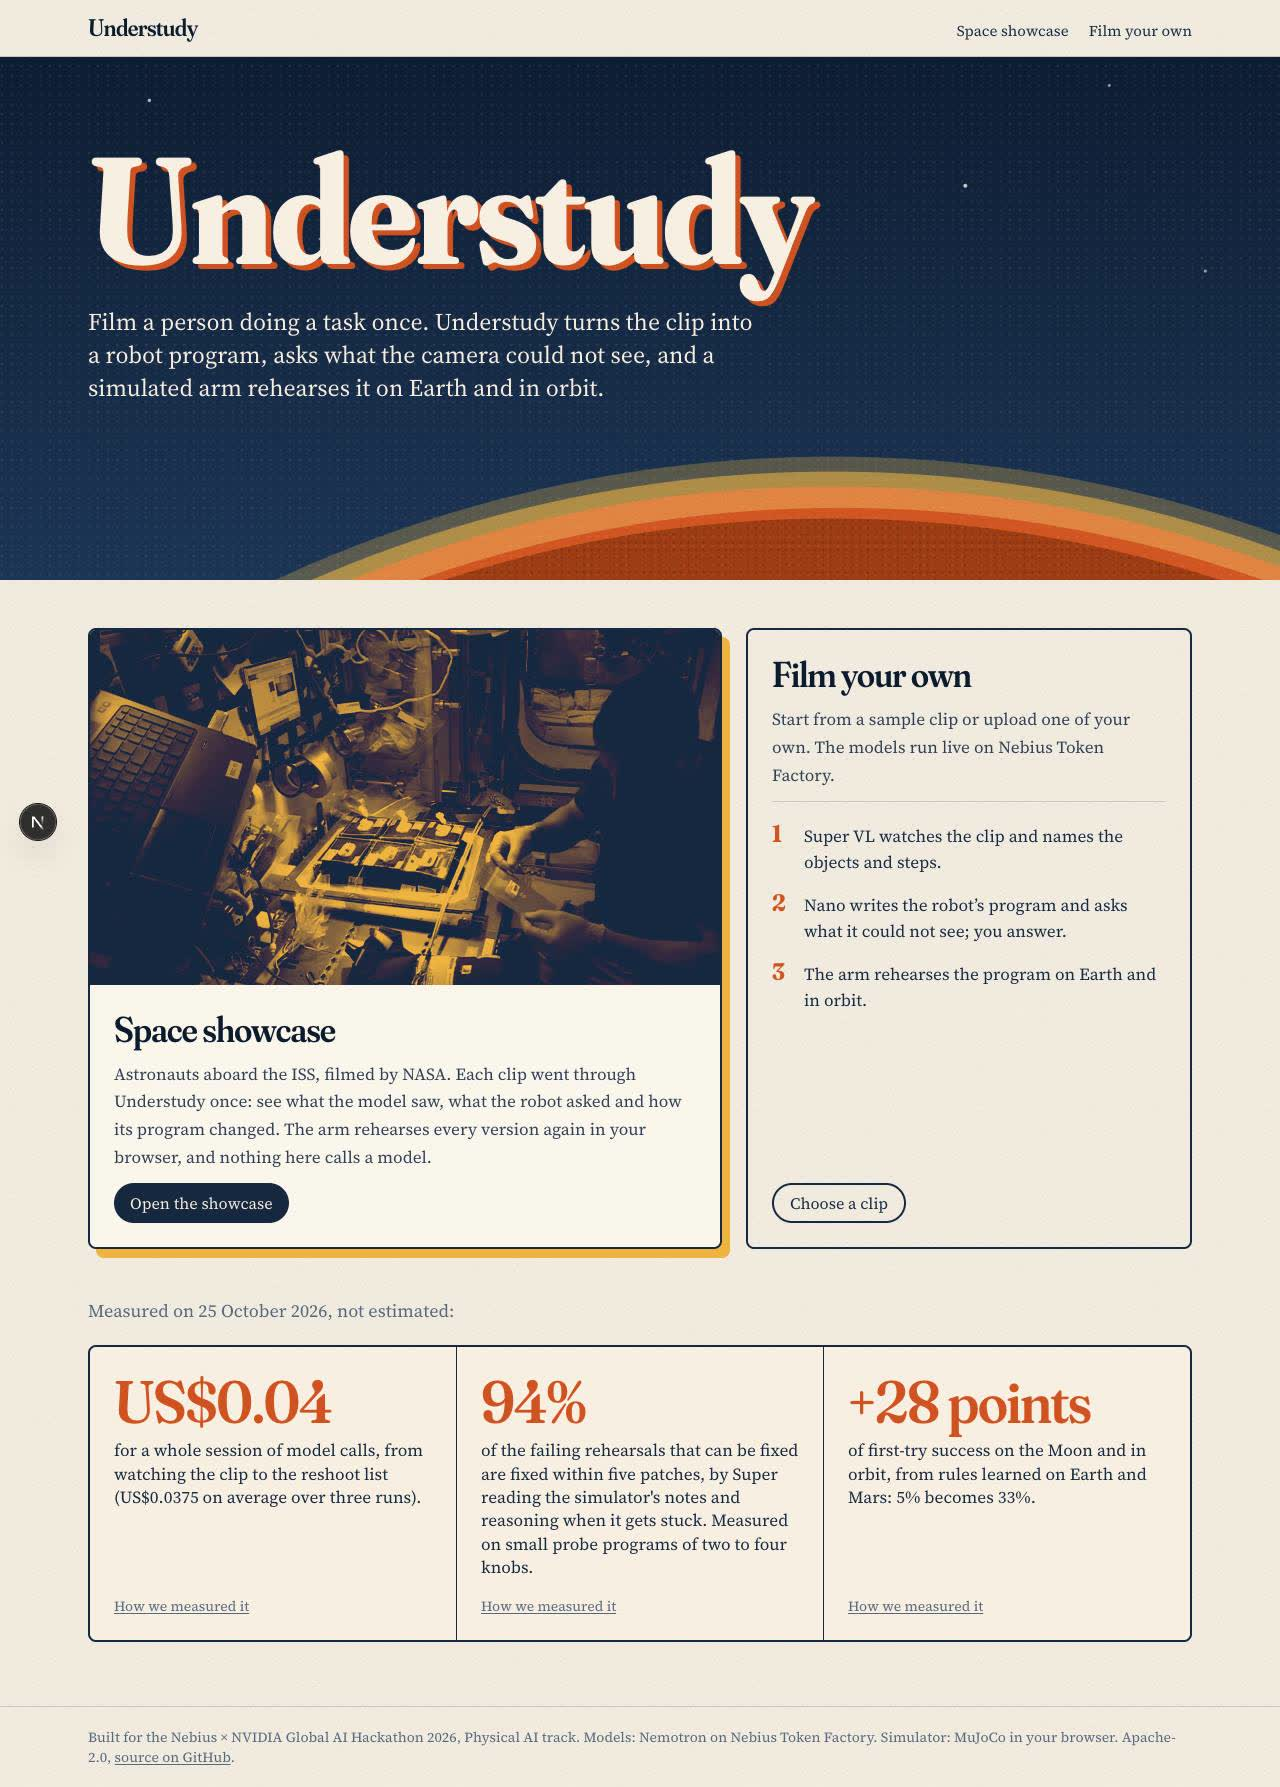
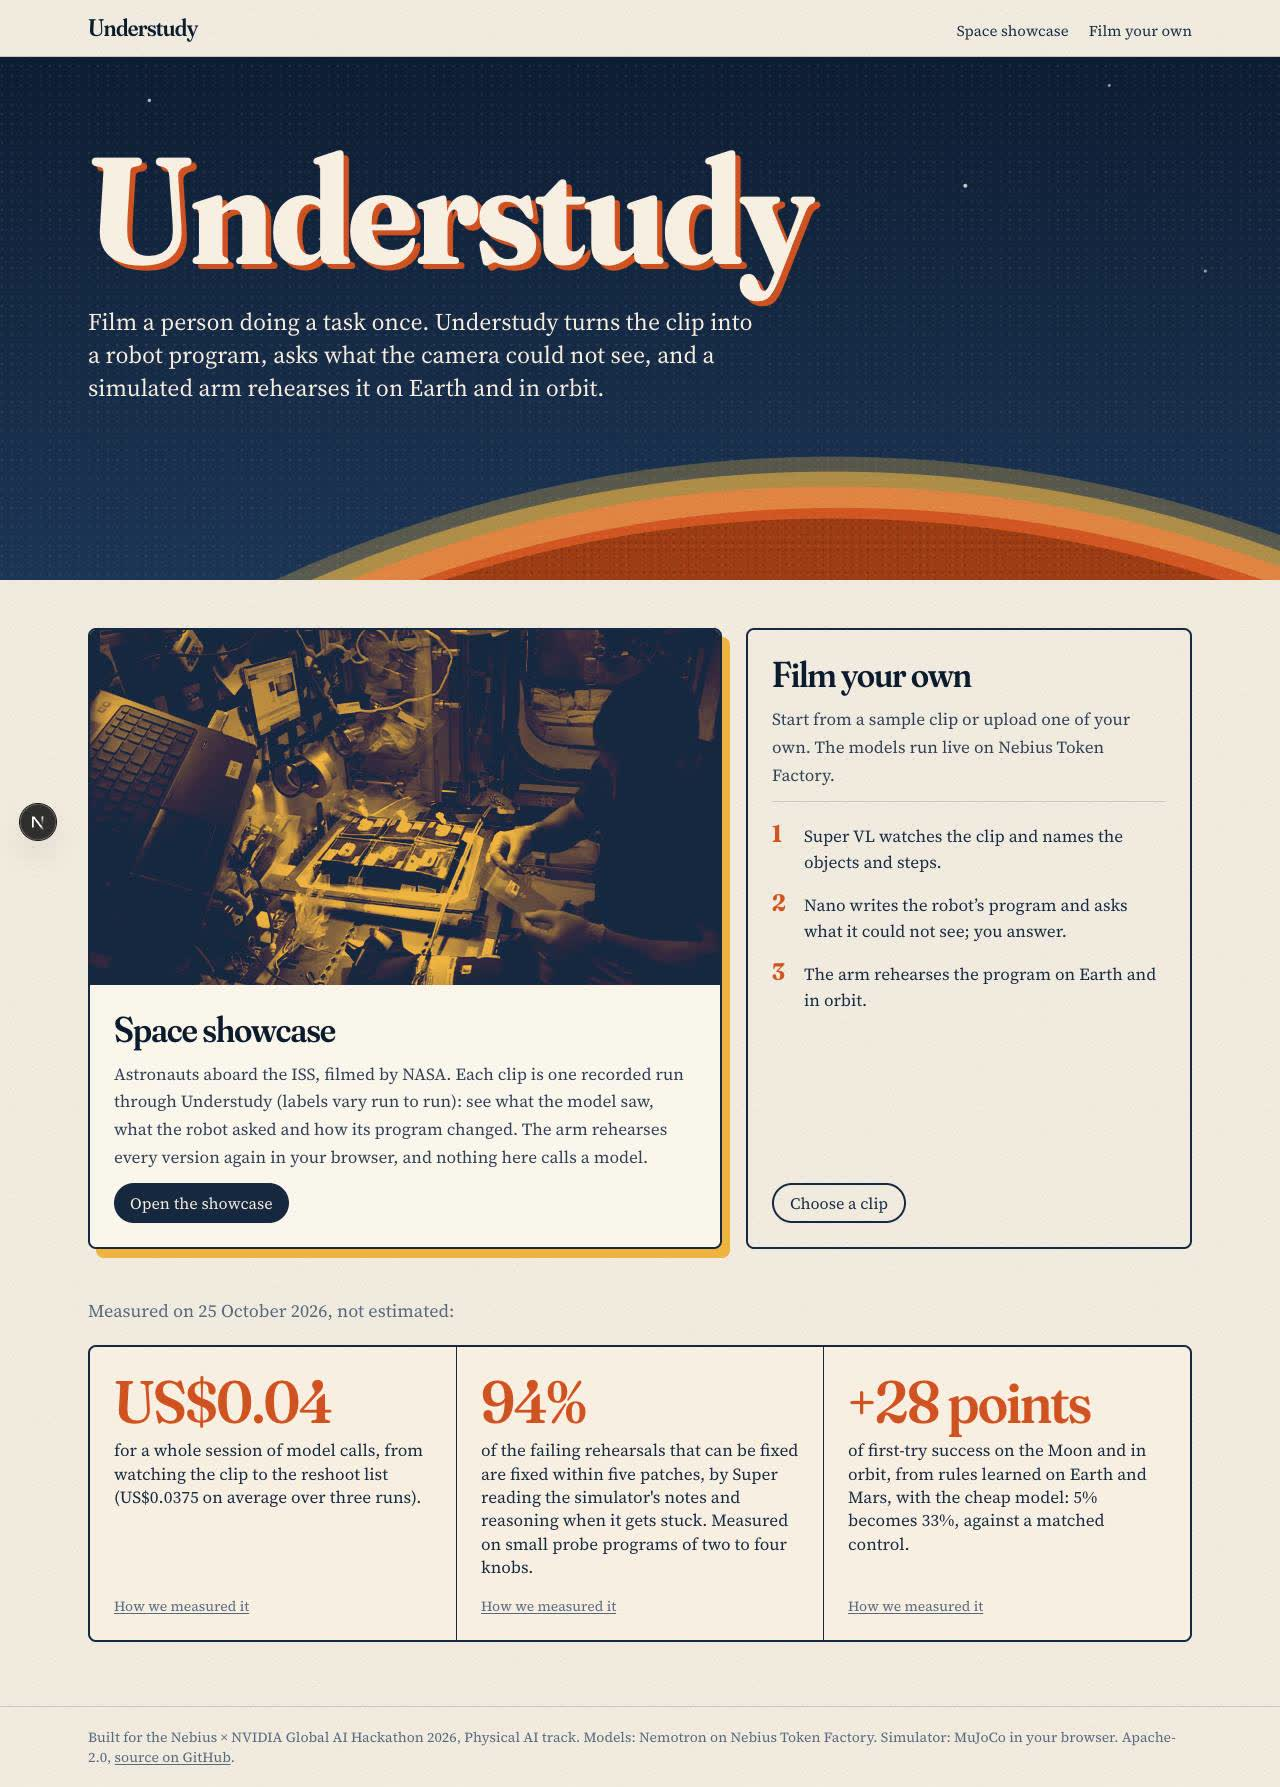
Showcase: wording from the lead's review; Notes off with notes={false}
- The +28 points card says it is the cheap model against a matched control.
- "Each clip is one recorded run through Understudy (labels vary run to run)", on the landing door and the gallery: the ISS clip was recorded four times and one run kept.
- The story's Notes paragraph: versions join when the clip is recorded again with Notes (/api/notes is on main).
- The hint names the task, and the story says why that matters, linked to MEASUREMENTS section 6.
- Rehearsal now takes notes={false} directly (#98 is on main).
- Screenshots retaken.

Refs #90

— gib

Changed region(s): [[0.0938, 0.5848, 0.5312, 0.6771], [0.6875, 0.831, 0.875, 0.8618]]

diff --git a/app/space/[clip]/story.tsx b/app/space/[clip]/story.tsx
@@ -138,7 +138,13 @@ export function Story({ sample, session }: { sample: Sample; session: Session })
         <div className="grid gap-5 lg:grid-cols-[minmax(0,3fr)_minmax(0,2fr)]">
           <Clip sample={sample} />
           <div className="flex flex-col gap-3 text-[17px] leading-relaxed">
-            <p>The only other input is the line its uploader would type, which helps the model name the objects:</p>
+            <p>
+              The only other input is the line its uploader would type. It names the task, and that matters: in our{" "}
+              <a className="underline underline-offset-2 hover:text-accent-text" href="https://github.com/gibouu/understudy/blob/main/docs/MEASUREMENTS.md#6-labelling-the-hero-clip">
+                label measurements
+              </a>{" "}
+              only a hint that names the task got the model to name the object being moved.
+            </p>
             <blockquote className="display border-l-4 border-sun pl-4 text-2xl leading-snug text-ink-deep">“{session.hint}”</blockquote>
             <p className="text-muted">The clip goes to the model as a small copy: 480 pixels wide, 4 frames a second, no sound.</p>
           </div>
@@ -251,8 +257,8 @@ export function Story({ sample, session }: { sample: Sample; session: Session })
             <p className="text-neutral-700">
               When it was recorded, version {pick} of the program: on Earth it <Outcome run={it.results.earth} spec={it.spec} />; in orbit it <Outcome run={it.results.orbit} spec={it.spec} />. Rehearse it to run the same program again here.
             </p>
-            {/* Rehearsal's Notes loop (#28) calls a model, and /space never does; spread so this compiles before that prop lands */}
-            <Rehearsal key={pick} spec={it.spec} program={it.program} onFail={setFailure} {...{ notes: false }} />
+            {/* the Notes stage calls a model, and /space never does */}
+            <Rehearsal key={pick} spec={it.spec} program={it.program} onFail={setFailure} notes={false} />
           </Step>
         </div>
       </div>
@@ -294,7 +300,7 @@ export function Story({ sample, session }: { sample: Sample; session: Session })
         </ol>
         {session.pending.length > 0 && finalFails && (
           <p className="max-w-3xl rounded-lg border-2 border-dashed border-accent p-4 text-[17px]">
-            This is where the Notes stage takes over: Super reads what the simulator measured in the failed rehearsal, patches the program’s numbers, and each patch is rehearsed again on Earth and in orbit. Its versions will join this story when that stage ships. On small probe programs of two to four knobs, the same loop fixed 94% of the failures that could be fixed.
+            This is where the Notes stage takes over: Super reads what the simulator measured in the failed rehearsal, patches the program’s numbers, and each patch is rehearsed again on Earth and in orbit. Its versions will join this story when this clip is recorded again with Notes. On small probe programs of two to four knobs, the same loop fixed 94% of the failures that could be fixed.
           </p>
         )}
         <p className="text-sm text-muted">

diff --git a/app/page.tsx b/app/page.tsx
@@ -7,7 +7,7 @@ const MEASURED = "https://github.com/gibouu/understudy/blob/main/docs/MEASUREMEN
 const NUMBERS = [
   { figure: "US$0.04", text: "for a whole session of model calls, from watching the clip to the reshoot list (US$0.0375 on average over three runs).", href: `${MEASURED}#1-what-a-session-costs` },
   { figure: "94%", text: "of the failing rehearsals that can be fixed are fixed within five patches, by Super reading the simulator's notes and reasoning when it gets stuck. Measured on small probe programs of two to four knobs.", href: `${MEASURED}#8-the-self-improvement-loop` },
-  { figure: "+28 points", text: "of first-try success on the Moon and in orbit, from rules learned on Earth and Mars: 5% becomes 33%.", href: `${MEASURED}#8-the-self-improvement-loop` },
+  { figure: "+28 points", text: "of first-try success on the Moon and in orbit, from rules learned on Earth and Mars, with the cheap model: 5% becomes 33%, against a matched control.", href: `${MEASURED}#8-the-self-improvement-loop` },
 ];
 
 export default async function Home() {
@@ -35,7 +35,7 @@ export default async function Home() {
           <div className="flex flex-1 flex-col gap-3 p-5 sm:p-6">
             <h2 className="display text-3xl font-semibold text-ink-deep sm:text-4xl">Space showcase</h2>
             <p className="text-[17px] leading-relaxed text-neutral-700">
-              Astronauts aboard the ISS, filmed by NASA. Each clip went through Understudy once: see what the model saw, what the robot asked and how its program changed. The arm rehearses every version again in your browser, and nothing here calls a model.
+              Astronauts aboard the ISS, filmed by NASA. Each clip is one recorded run through Understudy (labels vary run to run): see what the model saw, what the robot asked and how its program changed. The arm rehearses every version again in your browser, and nothing here calls a model.
             </p>
             <span className="mt-auto self-start rounded-full bg-ink px-4 py-2 text-paper group-hover:bg-accent-text">Open the showcase</span>
           </div>

diff --git a/app/space/page.tsx b/app/space/page.tsx
@@ -12,7 +12,7 @@ export default async function Space() {
       <header className="flex max-w-3xl flex-col gap-4">
         <h1 className="display text-5xl font-semibold text-ink-deep sm:text-6xl">Space showcase</h1>
         <p className="text-lg leading-relaxed text-neutral-700">
-          Astronauts at work aboard the ISS, filmed by NASA. Each clip went through Understudy once, end to end; what the models answered is recorded, so this page calls none of them. The simulated SO-101 runs again in your browser for every version of the program, on Earth and in orbit.
+          Astronauts at work aboard the ISS, filmed by NASA. Each clip is one recorded run through Understudy (labels vary run to run); what the models answered is recorded, so this page calls none of them. The simulated SO-101 runs again in your browser for every version of the program, on Earth and in orbit.
         </p>
       </header>
 
